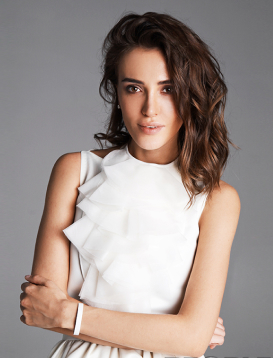
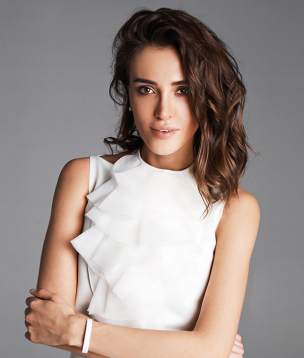
fixed: team.sass

Changed region(s): [[0.0586, 0.0, 0.9084, 1.0], [0.9377, 0.9832, 0.9963, 1.0]]

diff --git a/index.html b/index.html
@@ -587,10 +587,10 @@
         <div class="row">
           <div class="col-30 col-30--small-width">
             <div class="card team__card">
-              <div class="team-card__image">
-                <div class="team-card__icon">                
-                </div>
-                <img src="img/team/member-1.jpg" alt="Алексей Колмаков" class="card__image card__image--width wow animate__animated animate__fadeIn">
+              <div class="team-card__icon">                
+              </div>
+              <div class="team-card__image-wrap">                
+                <img src="img/team/member-1.jpg" alt="Алексей Колмаков" class="card__image team-card__image wow animate__animated animate__fadeIn">
                 <!-- /.img card__image -->
               </div>              
               <div class="team-card__text wow animate__animated animate__fadeInUp">
@@ -607,10 +607,10 @@
           </div>  
           <div class="col-30 col-30--small-width">
             <div class="card team__card">
-              <div class="team-card__image">
-                <div class="team-card__icon">                
-                </div>
-                <img src="img/team/member-2.jpg" alt="Алексей Колмаков" class="card__image wow animate__animated animate__fadeIn">
+              <div class="team-card__icon">                
+              </div>
+              <div class="team-card__image-wrap">                
+                <img src="img/team/member-2.jpg" alt="Алексей Колмаков" class="card__image team-card__image wow animate__animated animate__fadeIn">
                 <!-- /.img card__image -->
               </div>              
               <div class="team-card__text wow animate__animated animate__fadeInUp">
@@ -627,10 +627,10 @@
           </div>
           <div class="col-30 col-30--small-width">
             <div class="card team__card team__card--down">
-              <div class="team-card__image">
-                <div class="team-card__icon">                
-                </div>
-                <img src="img/team/member-3.jpg" alt="Алексей Колмаков" class="card__image wow animate__animated animate__fadeIn">
+              <div class="team-card__icon">               
+              </div>
+              <div class="team-card__image-wrap">              
+                <img src="img/team/member-3.jpg" alt="Алексей Колмаков" class="card__image team-card__image wow animate__animated animate__fadeIn">
                 <!-- /.img card__image -->
               </div>              
               <div class="team-card__text wow animate__animated animate__fadeInUp">

diff --git a/css/style.css b/css/style.css
@@ -429,7 +429,7 @@ label.invalid {
 .col-30 {
   flex-basis: 32%; }
   .col-30--small-width {
-    flex-basis: 21.8%; }
+    display: flex; }
 
 .col-50 {
   width: 40%;
@@ -889,8 +889,13 @@ img {
         border-radius: 30px; }
   .team-text__down {
     text-align: center; }
-  .team-card__image {
+  .team__card {
     position: relative; }
+  .team-card__image {
+    width: 304px; }
+  .team-card__image-wrap {
+    width: 304px;
+    overflow: hidden; }
   .team-card__icon {
     position: absolute;
     left: -2.5rem;

diff --git a/sass/templates/_team.sass b/sass/templates/_team.sass
@@ -37,11 +37,14 @@
     &__down
       text-align: center         
   &__card
-    max-width: 
-                      
+    position: relative                      
   &-card
     &__image
-      position: relative
+      width: 304px
+    &__image-wrap        
+      width: 304px
+      overflow: hidden        
+             
     &__icon
       position: absolute
       left: -2.5rem

diff --git a/sass/_grid.sass b/sass/_grid.sass
@@ -10,7 +10,7 @@
   &-30    
     flex-basis: 32%
     &--small-width
-      flex-basis: 21.8%
+      display: flex     
 
   &-50
     width: 40%
